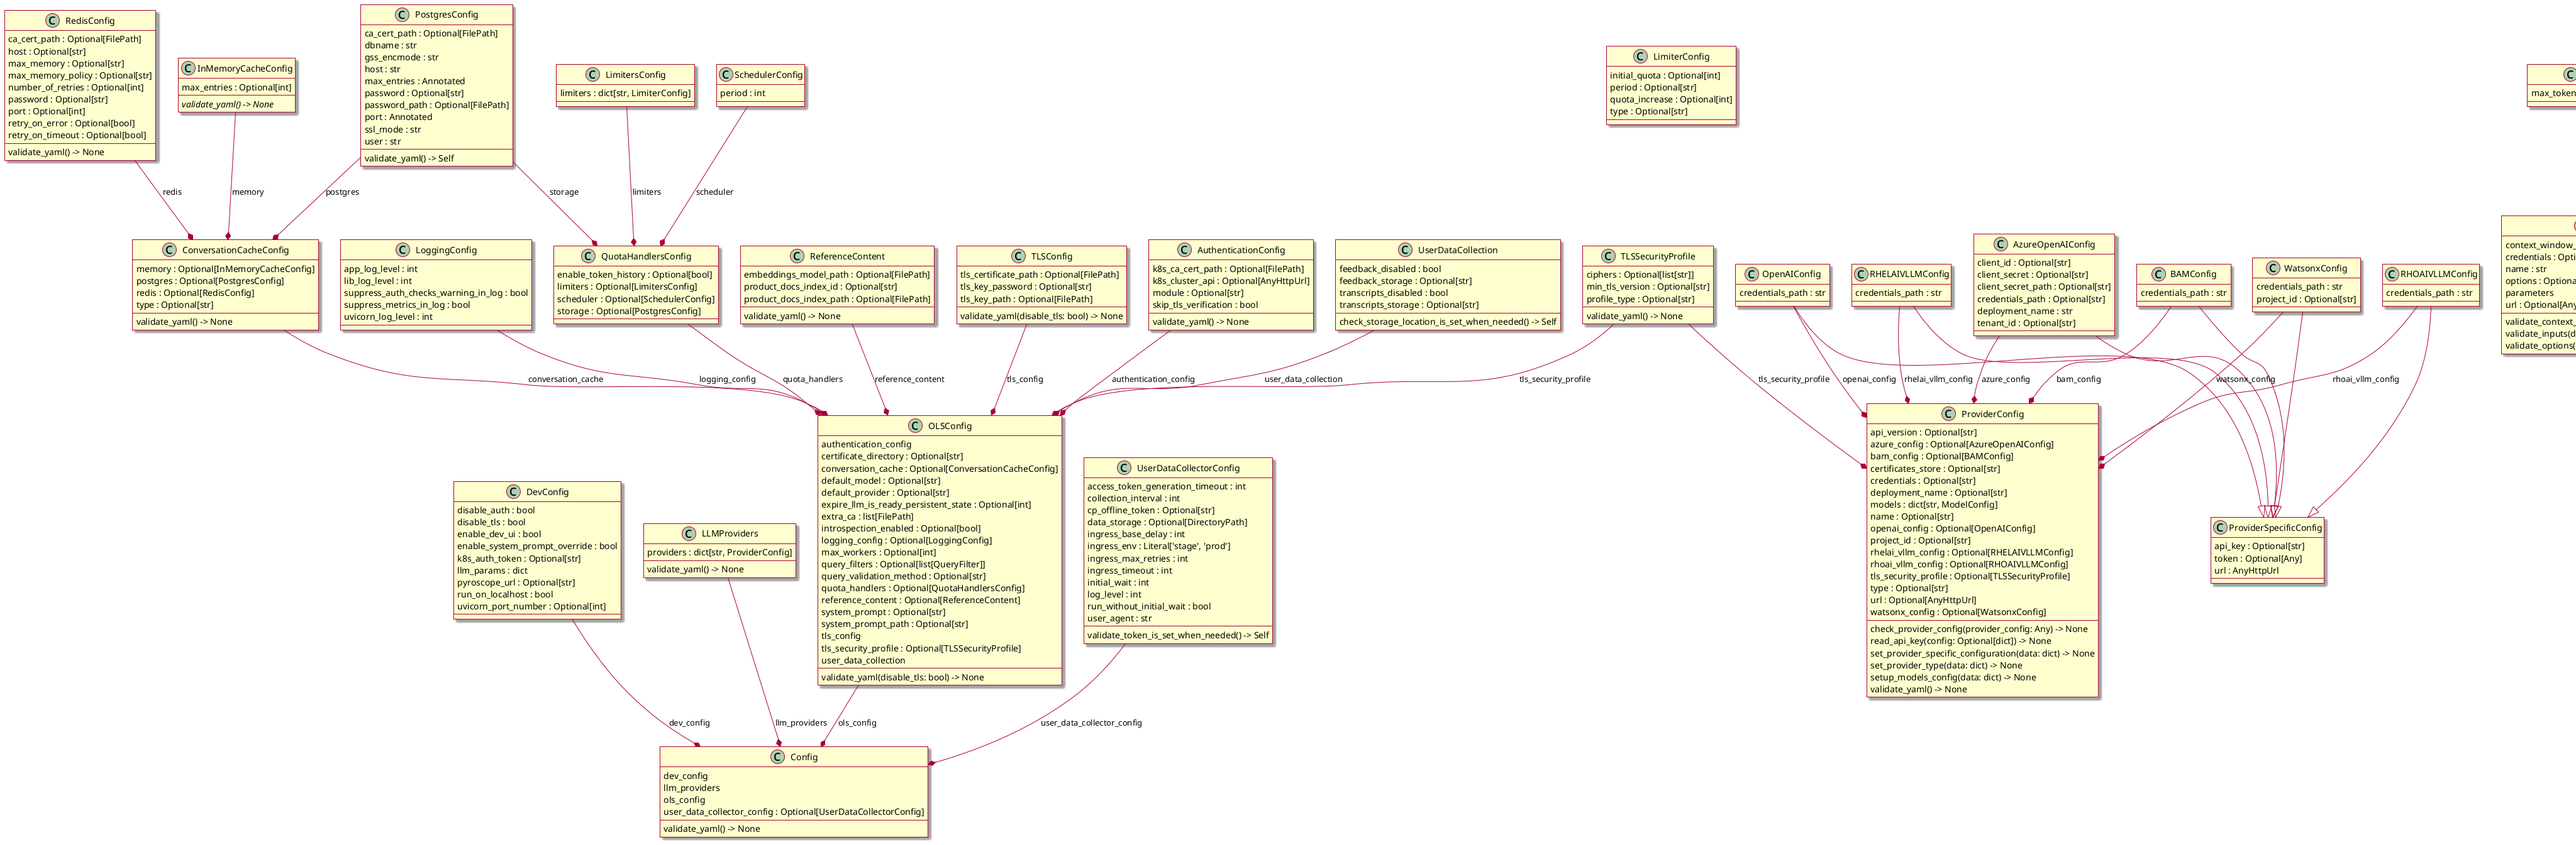
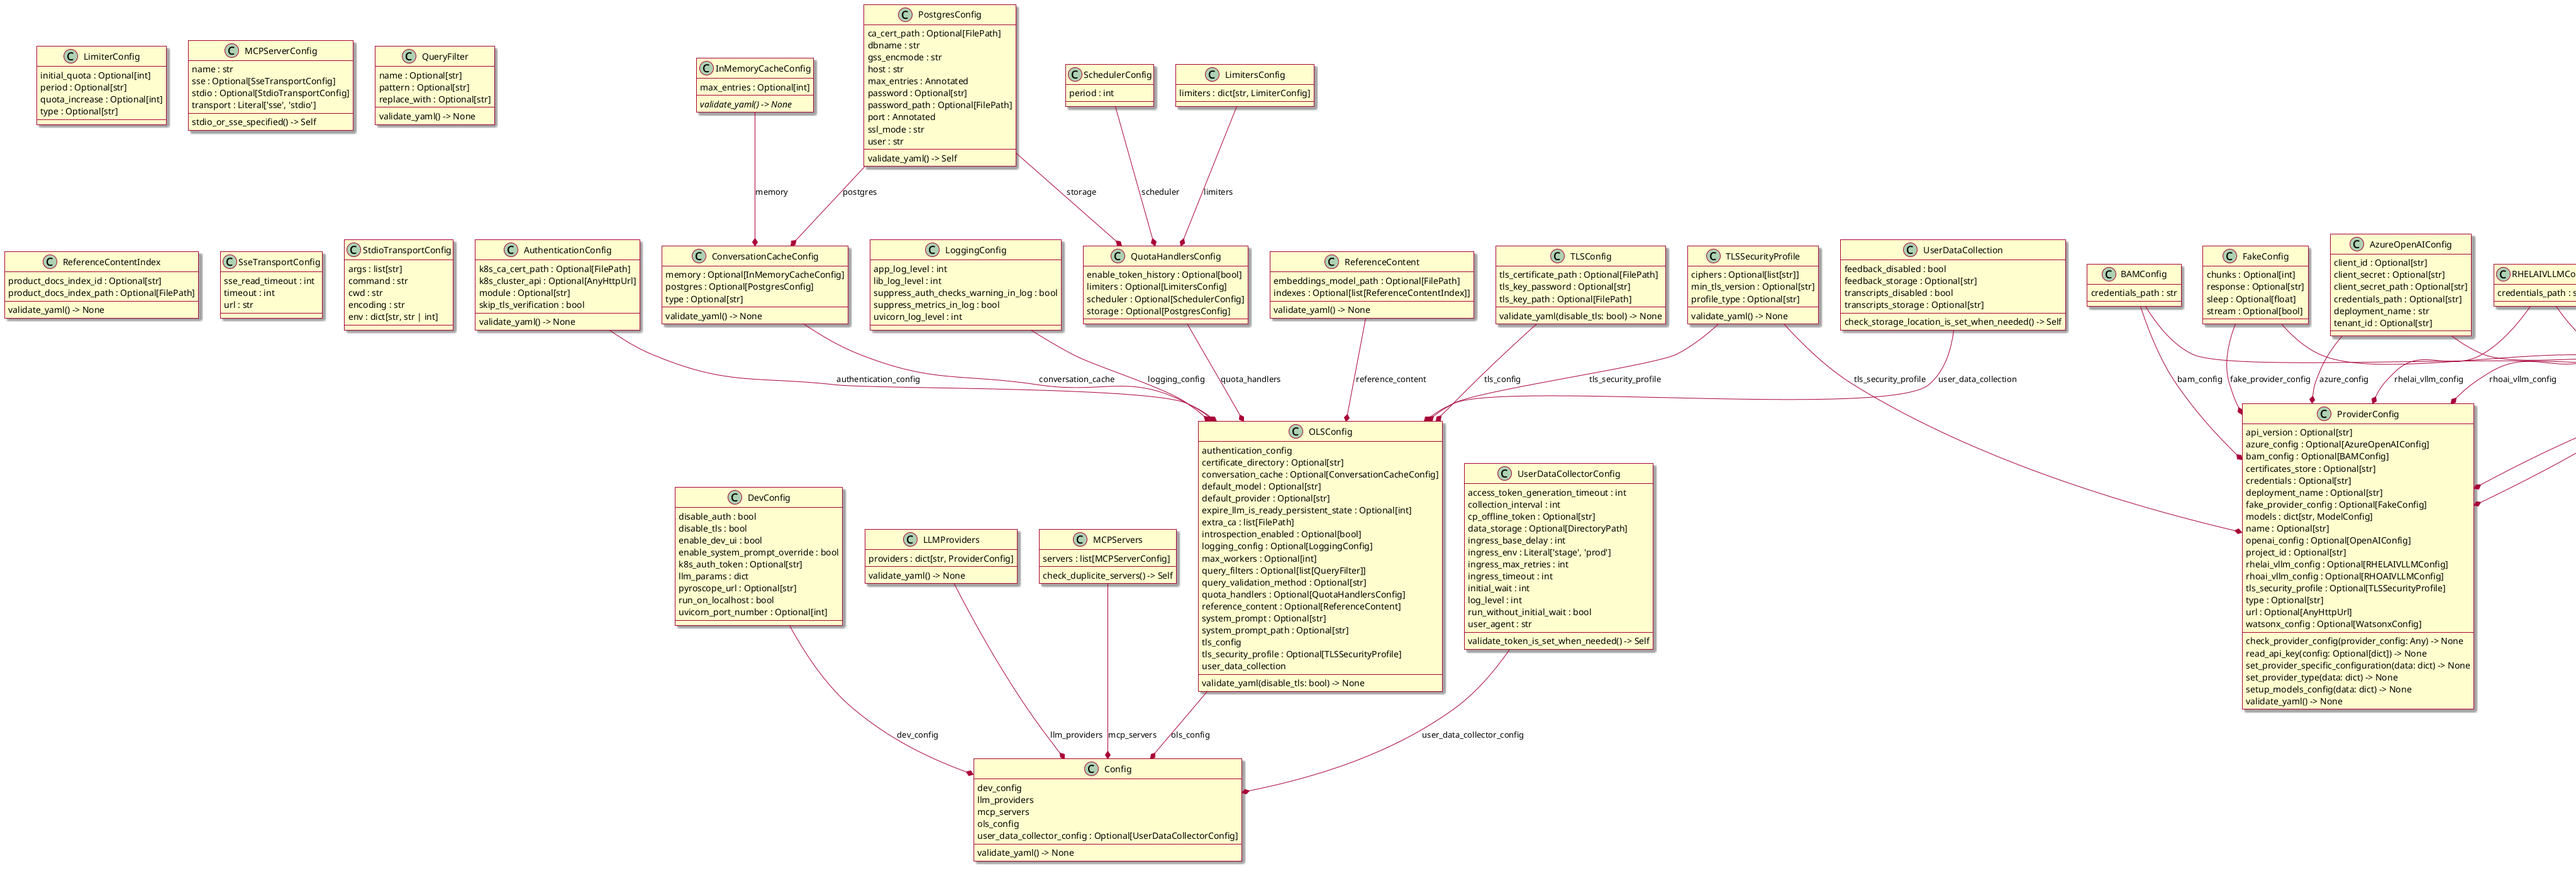
Removed Redis from documentation

diff --git a/README.md b/README.md
@@ -84,7 +84,6 @@ configure model, and connect to it.
         * [Conversation history cache interface](#conversation-history-cache-interface)
         * [Conversation history cache implementations](#conversation-history-cache-implementations)
             * [In-memory cache](#in-memory-cache)
-            * [Redis cache](#redis-cache)
             * [Postgres cache](#postgres-cache)
         * [LLM providers registry](#llm-providers-registry)
         * [LLM providers interface implementations](#llm-providers-interface-implementations)
@@ -860,9 +859,8 @@ Unified interface used to store and retrieve conversation history with optionall
 
 ### Conversation history cache implementations
 
-Currently there exist three conversation history cache implementations:
+Currently there exist two conversation history cache implementations:
 1. in-memory cache
-1. Redis cache
 1. Postgres cache
 
 Entries stored in cache have compound keys that consist of `user_id` and `conversation_id`. It is possible for one user to have multiple conversations and thus multiple `conversation_id` values at the same time. Global cache capacity can be specified. The capacity is measured as the number of entries; entries sizes are ignored in this computation.
@@ -870,10 +868,6 @@ Entries stored in cache have compound keys that consist of `user_id` and `conver
 #### In-memory cache
 
 In-memory cache is implemented as a queue with a defined maximum capacity specified as the number of entries that can be stored in a cache. That number is the limit for all cache entries, it doesn't matter how many users are using the LLM. When the new entry is put into the cache and if the maximum capacity is reached, the oldest entry is removed from the cache.
-
-#### Redis cache
-
-Entries are stored in Redis as a dictionary. LRU policy can be specified that allows Redis to automatically remove the oldest entries.
 
 #### Postgres cache
 
